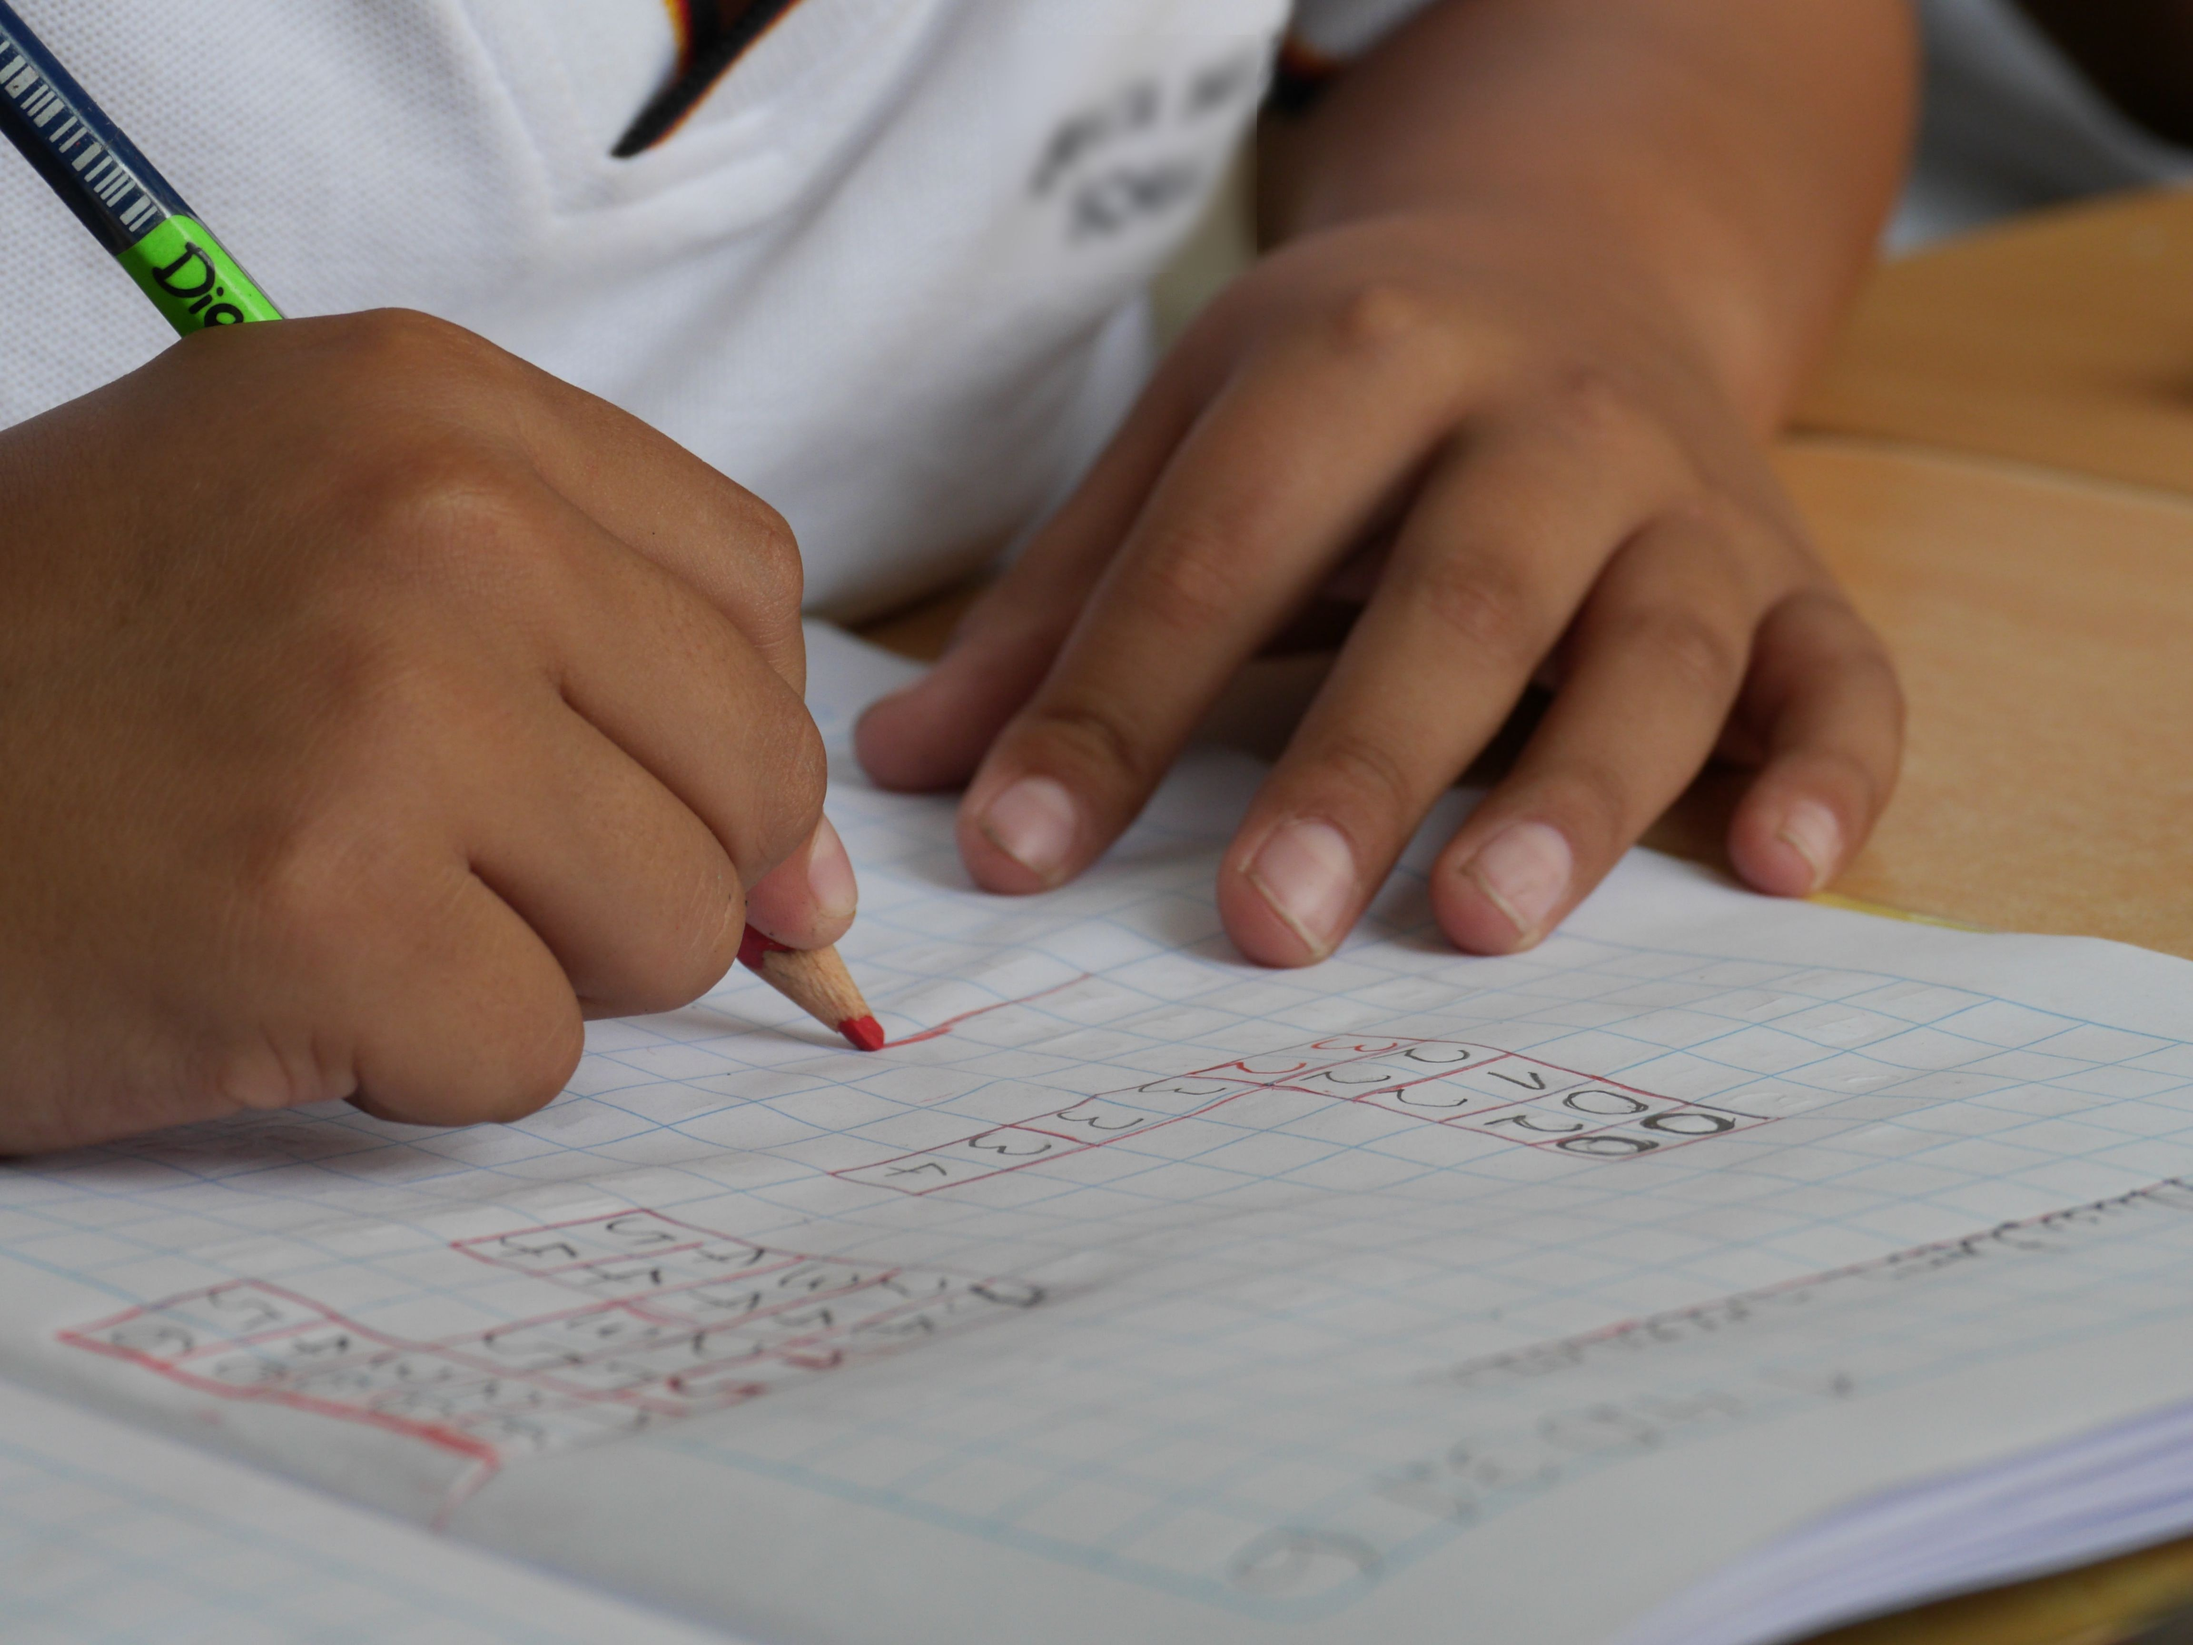
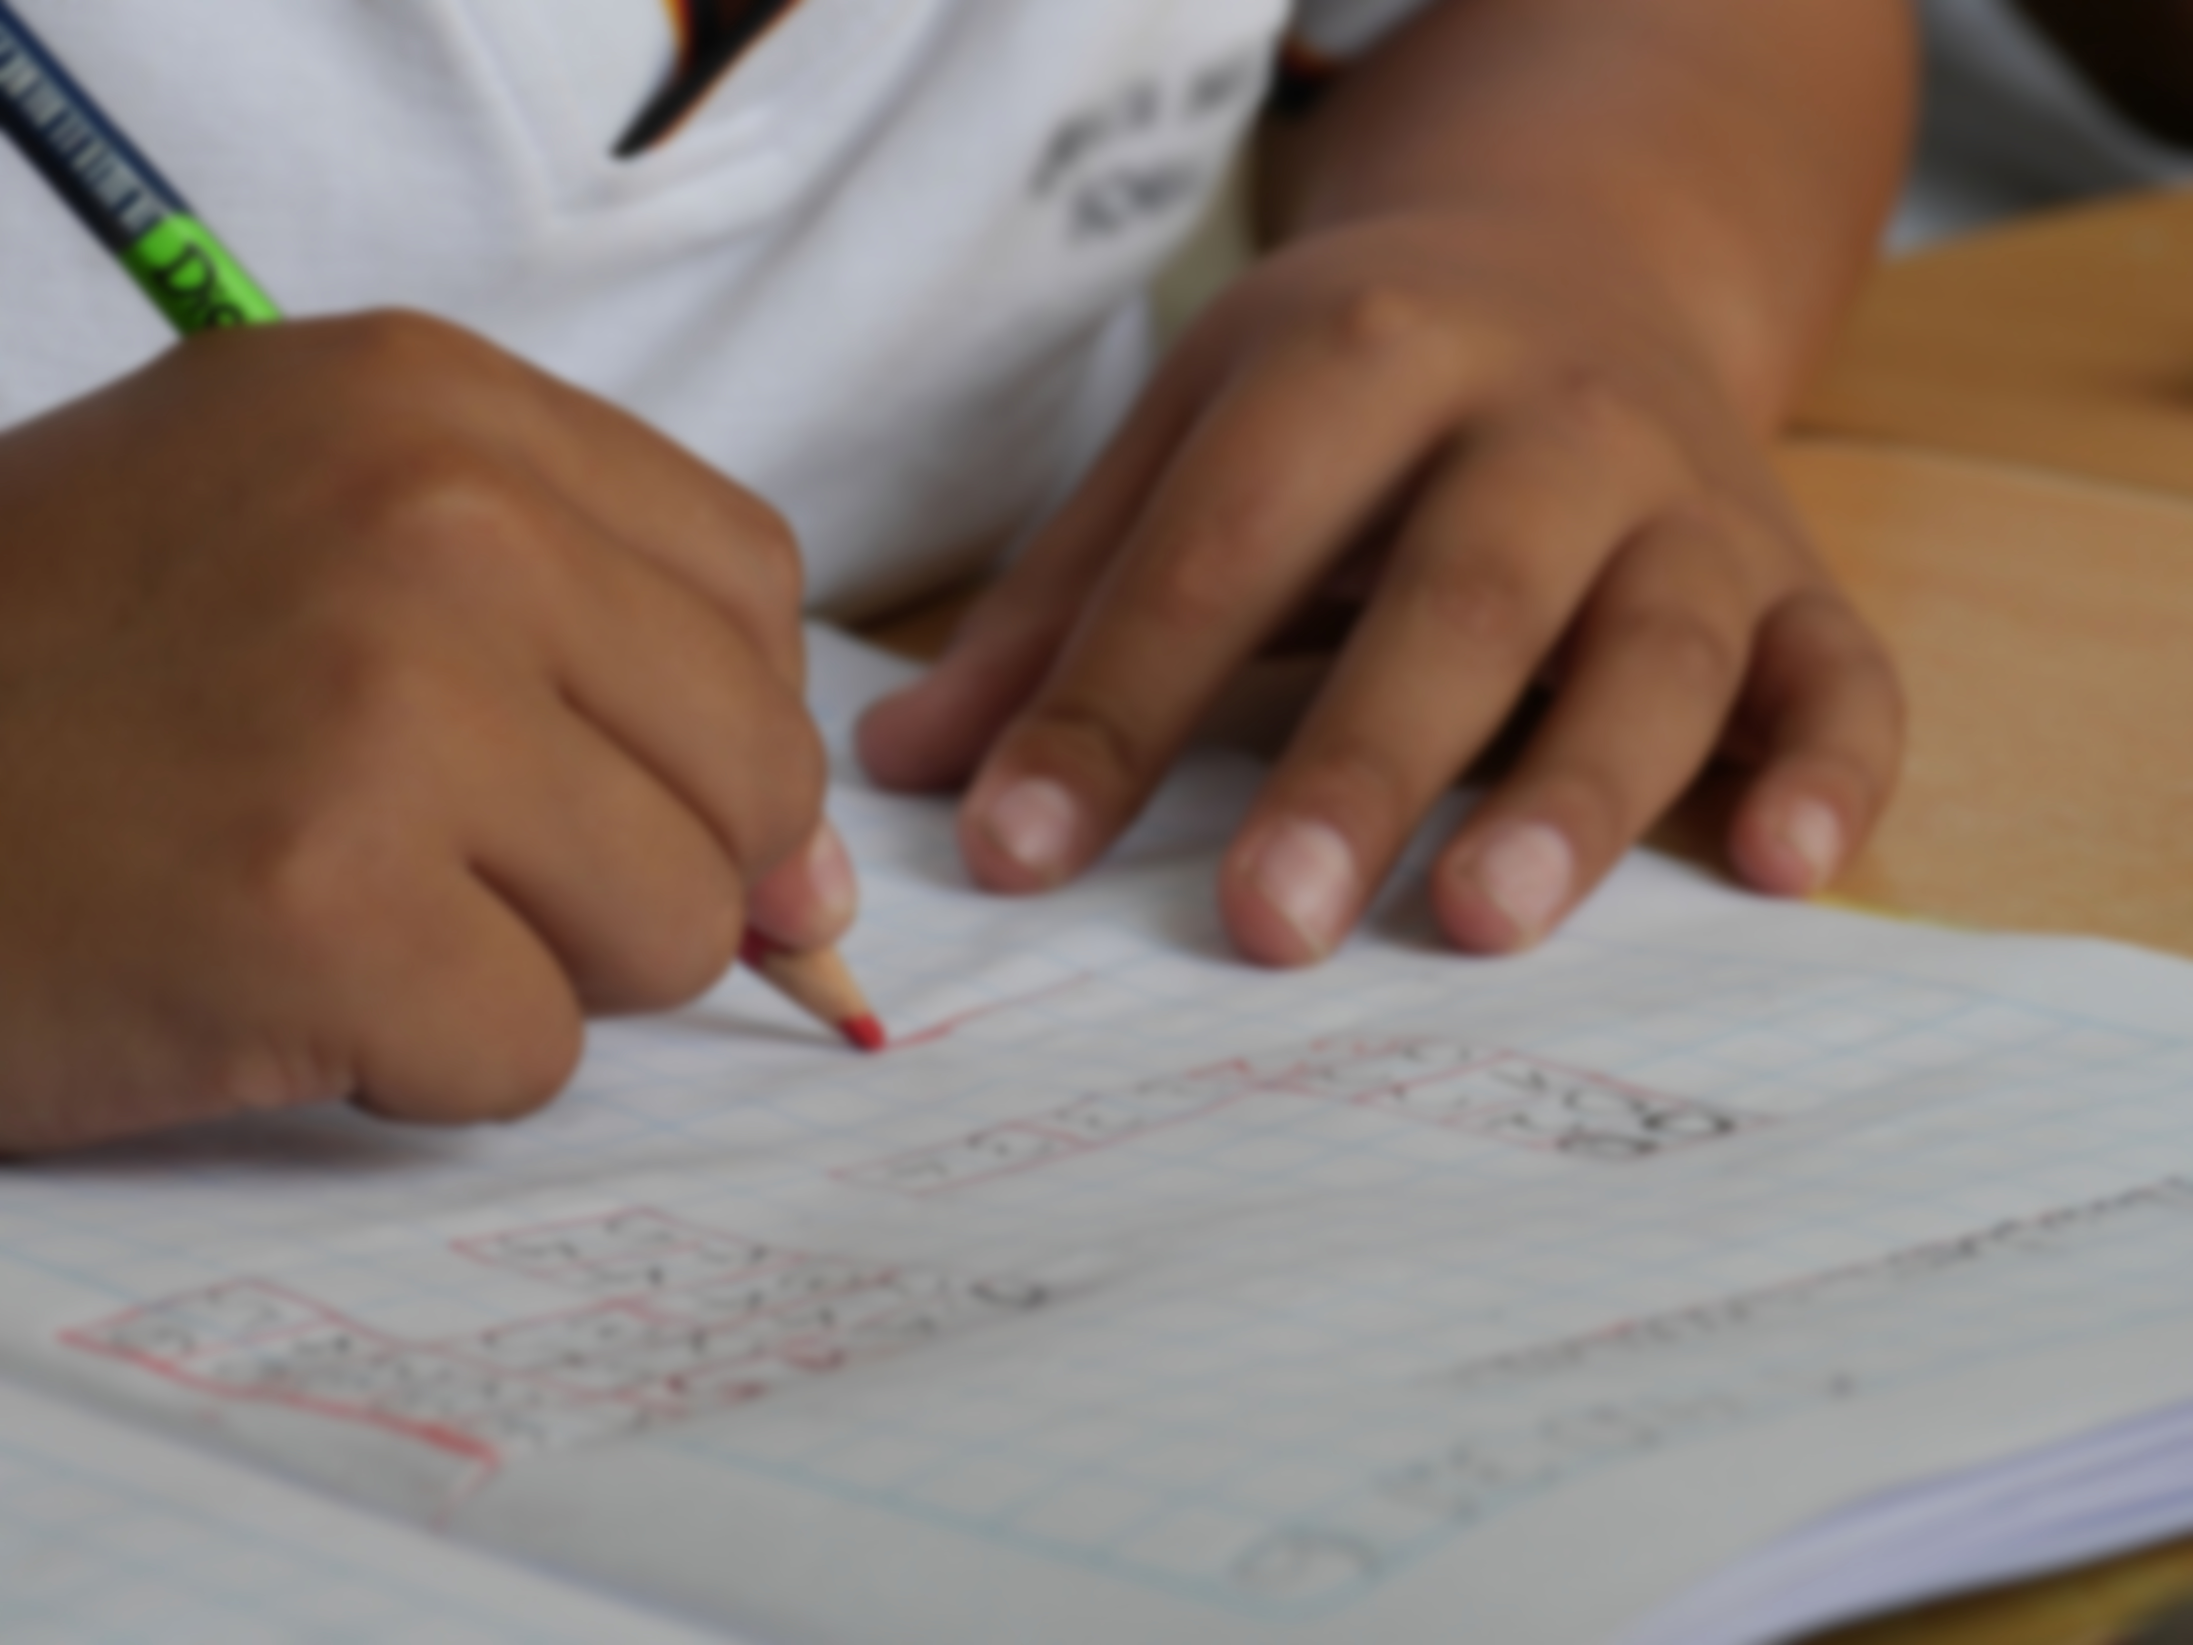
Added activities section content and parallax effect

diff --git a/index.html b/index.html
@@ -74,7 +74,7 @@
     <div class="container-fluid content-main">
       <!-- Remove height styling: Temporary for content simulation -->
       <section id="about-us" class="content-section">
-        <div class="row no-gutters my-4 mx-4 m-md-5">
+        <div class="row no-gutters py-4 px-4 p-md-5">
           <div class="col-12 col-md-4 py-2 p-md-4 p-xl-5">
             <h3>
               <span class="mr-1">
@@ -111,14 +111,70 @@
               Mission
             </h3>
             <p class="text-justify">
-              To ensure quality learning and teaching takes place in the 
+              To ensure quality learning and teaching takes place in the
               classroom everyday.
             </p>
           </div>
         </div>
       </section>
       <section id="activities" class="content-section">
-        <div class="row no-gutters" style="height: 50em;">
+        <div class="row no-gutters py-4 px-4 p-md-5 text-center">
+          <div class="col-12 col-md-4">
+            <div class="row">
+              <div class="col-12"></div>
+              <div class="col-12">
+                <h3>Soccer</h3>
+              </div>
+            </div>
+          </div>
+          <div class="col-12 col-md-4">
+            <div class="row">
+              <div class="col-12"></div>
+              <div class="col-12">
+                <h3>Netball</h3>
+              </div>
+            </div>
+          </div>
+          <div class="col-12 col-md-4">
+            <div class="row">
+              <div class="col-12"></div>
+              <div class="col-12">
+                <h3>Volleyball</h3>
+              </div>
+            </div>
+          </div>
+          <div class="col-12 col-md-4">
+            <div class="row">
+              <div class="col-12"></div>
+              <div class="col-12">
+                <h3>Athletics</h3>
+              </div>
+            </div>
+          </div>
+          <div class="col-12 col-md-4">
+            <div class="row">
+              <div class="col-12"></div>
+              <div class="col-12">
+                <h3>Dance and Drama</h3>
+              </div>
+            </div>
+          </div>
+          <div class="col-12 col-md-4">
+            <div class="row">
+              <div class="col-12"></div>
+              <div class="col-12">
+                <h3>Mini-cricket</h3>
+              </div>
+            </div>
+          </div>
+          <div class="col-12 col-md-4">
+            <div class="row">
+              <div class="col-12"></div>
+              <div class="col-12">
+                <h3>Field band</h3>
+              </div>
+            </div>
+          </div>
         </div>
       </section>
       <section id="gallery" class="content-section">

diff --git a/css/style.css b/css/style.css
@@ -241,6 +241,12 @@ nav.navbar.navbar-view-static {
 
 #activities {
     background-color: #f0f0f0;
+    min-height: 300px;
+    background-image: url(../img/writing.jpg);
+    background-attachment: fixed;
+    background-repeat: no-repeat;
+    background-position: center;
+    background-size: cover;
 }
 
 #gallery {
